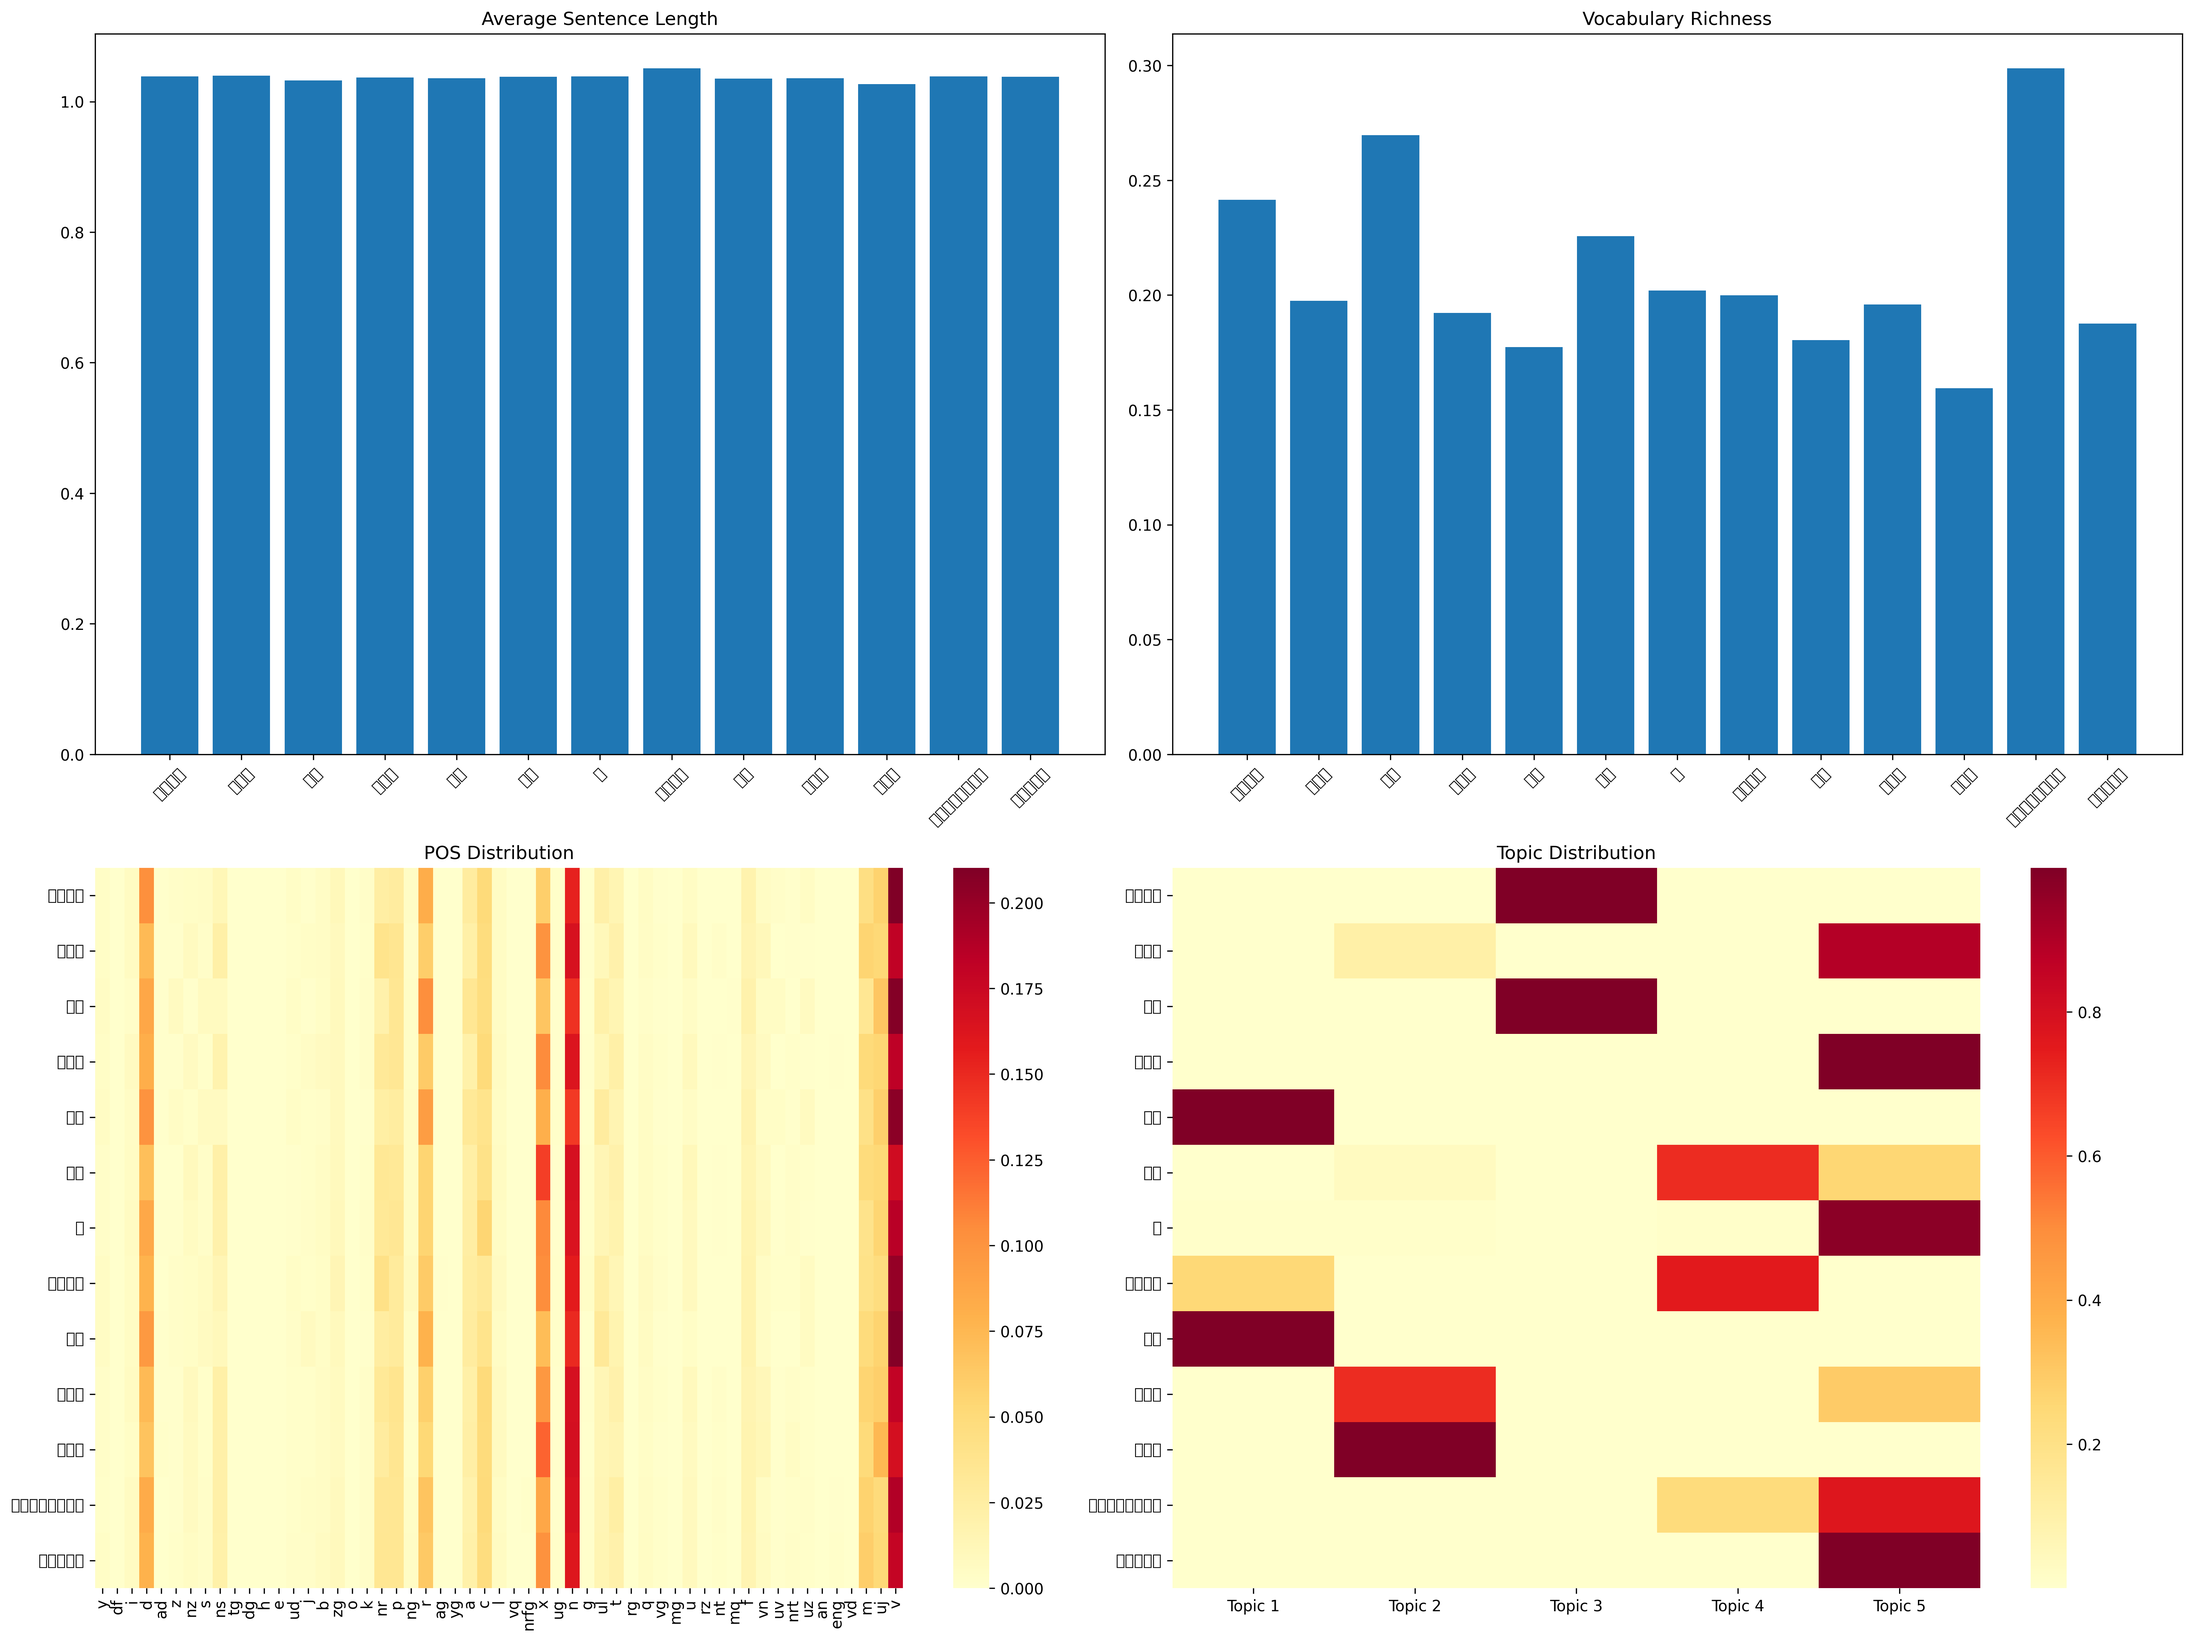
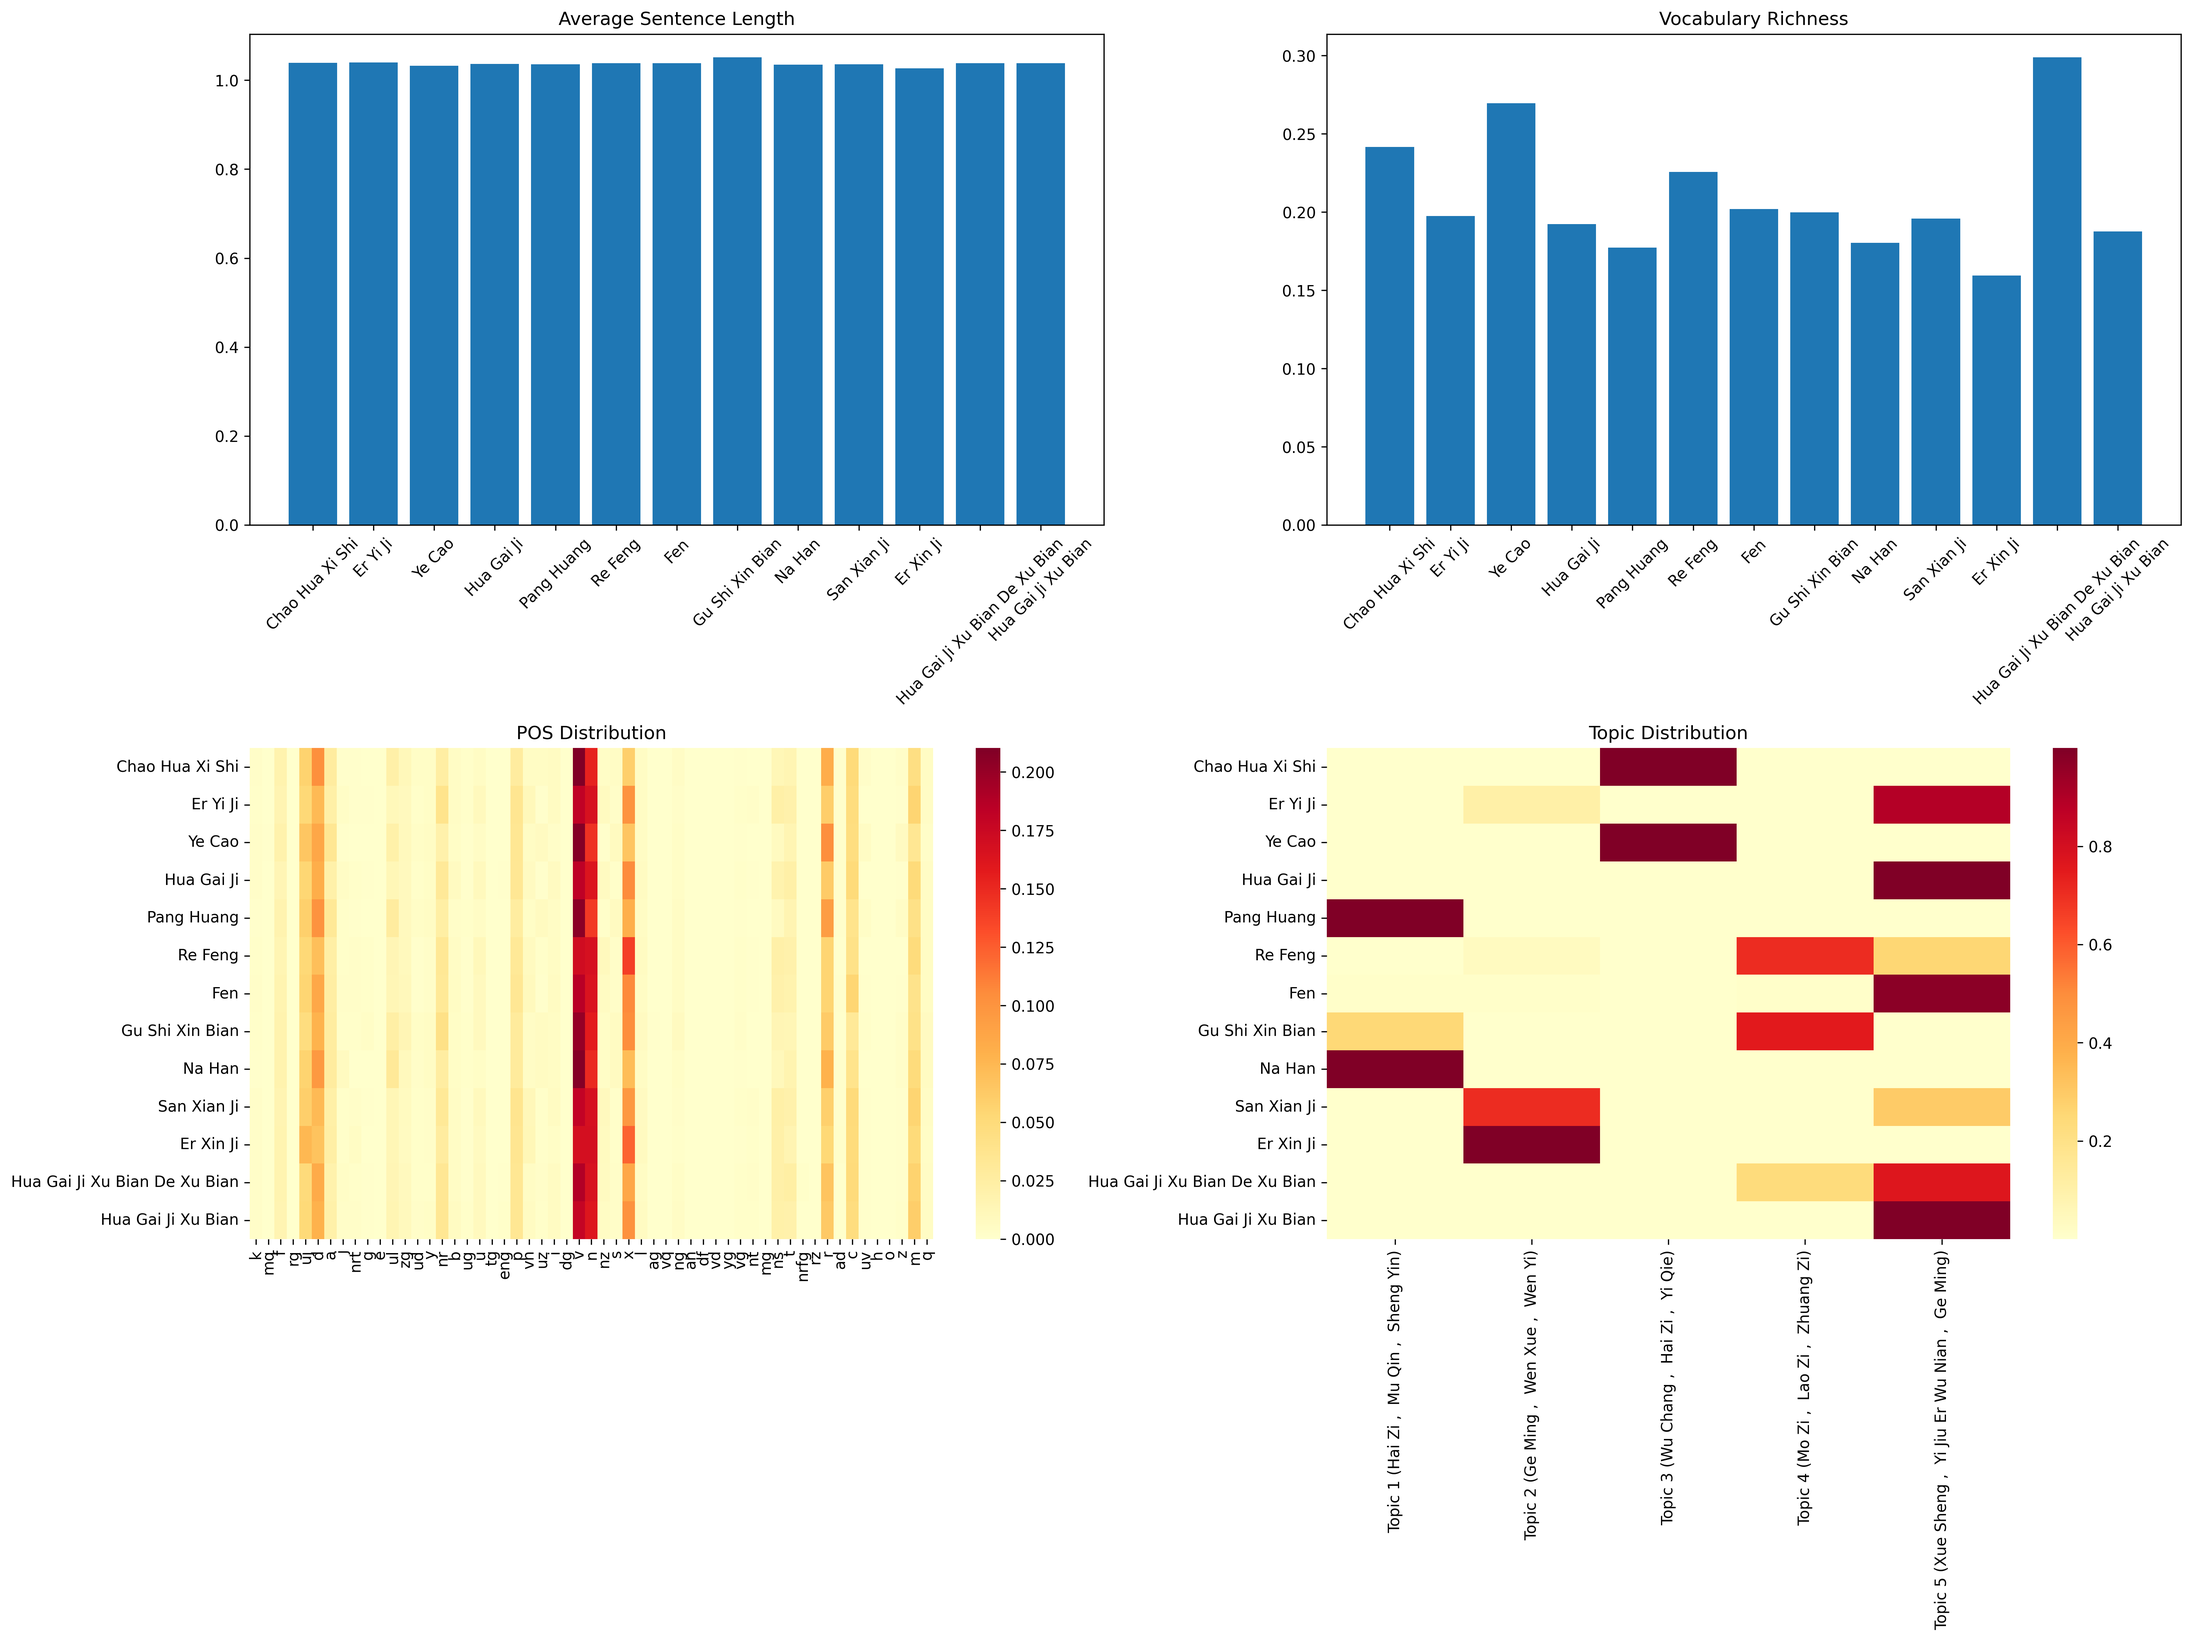
fix: chinese spelling display

diff --git a/src/3-addition/3-theme-style-analysis.py b/src/3-addition/3-theme-style-analysis.py
@@ -20,6 +20,7 @@ from typing import List, Dict, Tuple
 import json
 from scipy import stats
 import warnings
+from pypinyin import lazy_pinyin, Style
 
 warnings.filterwarnings("ignore")
 
@@ -208,7 +209,8 @@ class ThemeStyleAnalyzer:
 
             # 创建词频分布
             word_freq = {
-                word: (len(top_words) - i) for i, word in enumerate(topic_words)
+                convert_to_pinyin(word): (len(top_words) - i)
+                for i, word in enumerate(topic_words)
             }
 
             # 绘制条形图
@@ -247,7 +249,9 @@ class ThemeStyleAnalyzer:
         ]
         ax1.bar(style_features.keys(), avg_lengths)
         ax1.set_title("Average Sentence Length")
-        ax1.set_xticklabels(style_features.keys(), rotation=45)
+        ax1.set_xticklabels(
+            [convert_to_pinyin(work) for work in style_features.keys()], rotation=45
+        )
 
         # 2. 词汇丰富度对比
         richness = [
@@ -255,7 +259,9 @@ class ThemeStyleAnalyzer:
         ]
         ax2.bar(style_features.keys(), richness)
         ax2.set_title("Vocabulary Richness")
-        ax2.set_xticklabels(style_features.keys(), rotation=45)
+        ax2.set_xticklabels(
+            [convert_to_pinyin(work) for work in style_features.keys()], rotation=45
+        )
 
         # 3. 词性分布热图
         pos_data = {}
@@ -280,7 +286,7 @@ class ThemeStyleAnalyzer:
             pos_matrix,
             ax=ax3,
             xticklabels=list(all_pos),
-            yticklabels=list(style_features.keys()),
+            yticklabels=[convert_to_pinyin(work) for work in style_features.keys()],
             cmap="YlOrRd",
         )
         ax3.set_title("POS Distribution")
@@ -292,8 +298,11 @@ class ThemeStyleAnalyzer:
         sns.heatmap(
             topic_matrix,
             ax=ax4,
-            xticklabels=[f"Topic {i+1}" for i in range(self.n_topics)],
-            yticklabels=list(style_features.keys()),
+            xticklabels=[
+                f"Topic {i+1} ({convert_to_pinyin(', '.join(self.get_top_words_per_topic()[i][:3]))})"
+                for i in range(self.n_topics)
+            ],
+            yticklabels=[convert_to_pinyin(work) for work in style_features.keys()],
             cmap="YlOrRd",
         )
         ax4.set_title("Topic Distribution")
@@ -387,6 +396,20 @@ def segment_text(text: str) -> List[str]:
         if len(w.strip()) > 0 and not w.strip() in '，。！？；：（）【】《》""'
     ]
     return words
+
+
+def convert_to_pinyin(text: str) -> str:
+    """
+    将中文文本转换为拼音
+    Args:
+        text: 中文文本
+    Returns:
+        拼音字符串
+    """
+    if not isinstance(text, str):
+        return str(text)
+    pinyin_list = lazy_pinyin(text, style=Style.NORMAL)
+    return " ".join(pinyin_list).title()
 
 
 def main():
